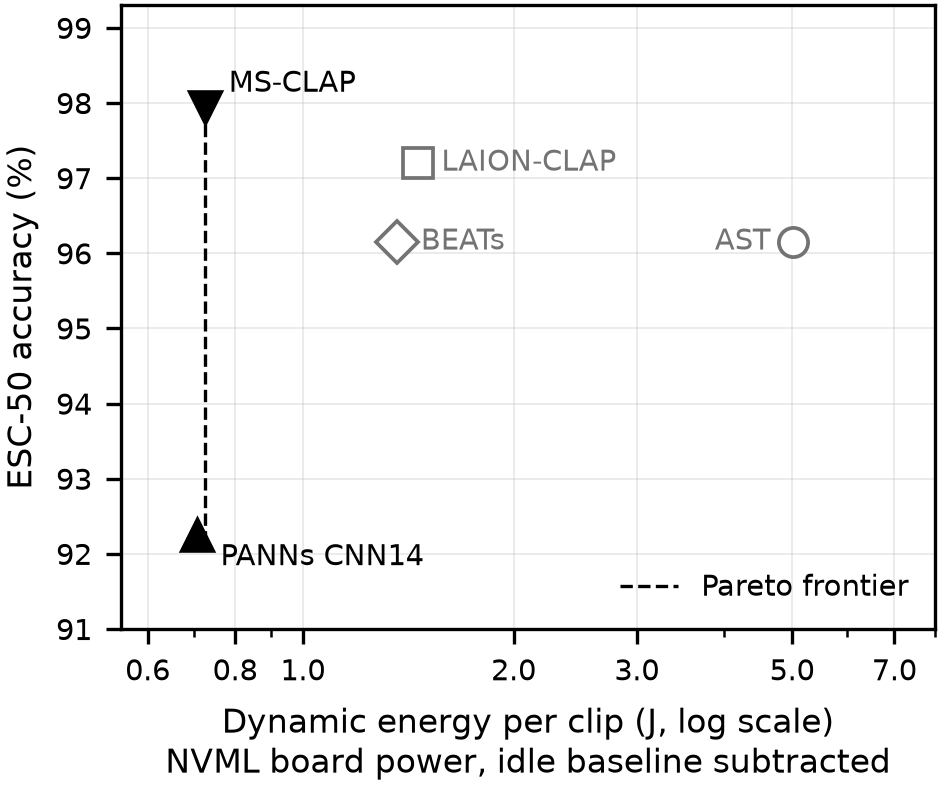
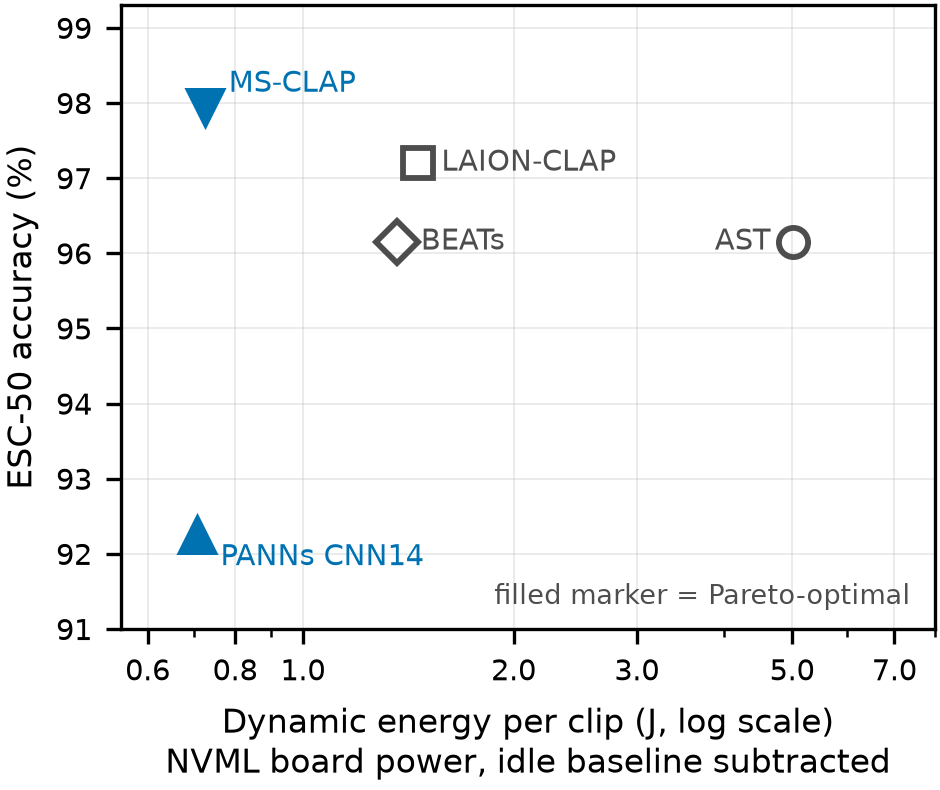
figures: raise contrast and unify the Pareto encoding in fig1/fig2
Dominated models were drawn with a 0.45 grey that washes out in print.
Both scatter figures now use an Okabe-Ito blue (#0072B2) for Pareto-optimal
points and a dark grey (#4D4D4D) for dominated ones, applied to markers and
their labels alike; dominated markers are unfilled with a heavier edge.
Marker shapes are unchanged, so the model encoding still survives greyscale.

The dashed frontier staircase and its legend are dropped from fig1 in favour
of the same 'filled marker = Pareto-optimal' annotation fig2 already used,
so the two figures now read identically.

fig3, fig4 and fig5 are untouched (their PNGs are byte-identical; their PDFs
were restored to avoid timestamp-only churn).

diff --git a/scripts/make_figures.py b/scripts/make_figures.py
@@ -30,8 +30,13 @@ RESULTS = ROOT / "results"
 FIGURES = ROOT / "figures"
 
 COL_W = 3.5          # IEEE single-column width in inches
-GRAY = "0.45"
-PARETO_MS = 7.0
+GRAY = "0.45"        # figures 3-5 only
+#: Scatter palette (fig1/fig2). Okabe-Ito blue for the accent; the dominated
+#: grey is dark enough to stay legible in print and in greyscale conversion.
+PARETO = "#0072B2"
+DOMINATED = "#4D4D4D"
+PARETO_MS = 8.0      # Pareto-optimal markers
+DOMINATED_MS = 7.0
 # distinct, grayscale-safe markers (shape carries the identity, not colour)
 MARKERS = {"ast": "o", "laion_clap": "s", "panns_cnn14": "^",
            "beats": "D", "ms_clap": "v"}
@@ -83,28 +88,23 @@ def scatter_pareto(ax, data: pd.DataFrame, cost_col: str, probe: pd.DataFrame,
 
     for row in data.itertuples():
         opt = row.optimal
+        colour = PARETO if opt else DOMINATED
         ax.plot(getattr(row, cost_col), row.accuracy_pct,
-                marker=MARKERS[row.model], markersize=PARETO_MS,
-                markerfacecolor="black" if opt else "white",
-                markeredgecolor="black" if opt else GRAY,
-                markeredgewidth=1.1 if opt else 0.9, linestyle="none",
+                marker=MARKERS[row.model],
+                markersize=PARETO_MS if opt else DOMINATED_MS,
+                markerfacecolor=colour if opt else "none",
+                markeredgecolor=colour,
+                markeredgewidth=1.2 if opt else 1.4, linestyle="none",
                 zorder=3 if opt else 2)
         dx, dy, ha = label_offsets.get(row.model, (1.06, 0.0, "left"))
         ax.annotate(DISPLAY[row.model],
                     (getattr(row, cost_col), row.accuracy_pct),
                     xytext=(getattr(row, cost_col) * dx, row.accuracy_pct + dy),
-                    fontsize=7, va="center", ha=ha,
-                    color="black" if opt else GRAY, zorder=4)
+                    fontsize=7, va="center", ha=ha, color=colour, zorder=4)
 
-    front = data[data["optimal"]].sort_values(cost_col)
-    if len(front) > 1:  # staircase frontier: only meaningful with >= 2 points
-        xs, ys = [], []
-        for i, r in enumerate(front.itertuples()):
-            if i:
-                xs.append(getattr(r, cost_col)); ys.append(ys[-1])
-            xs.append(getattr(r, cost_col)); ys.append(r.accuracy_pct)
-        ax.plot(xs, ys, color="black", linewidth=0.8, linestyle="--",
-                zorder=1, label="Pareto frontier")
+    ax.annotate("filled marker = Pareto-optimal", xy=(0.97, 0.04),
+                xycoords="axes fraction", fontsize=6.5, color=DOMINATED,
+                ha="right")
     ax.set_xscale("log")
     # explicit ticks: the default log minor labels collide at this width
     ax.set_xticks(xticks)
@@ -127,7 +127,6 @@ def figure1(probe, eff):
         xticks=[0.6, 0.8, 1.0, 2.0, 3.0, 5.0, 7.0])
     ax.set_ylim(91.0, 99.3)
     ax.set_xlim(0.55, 8.0)
-    ax.legend(loc="lower right", frameon=False)
     save(fig, "fig1_accuracy_vs_energy_fp32_bs1")
     return data
 
@@ -144,8 +143,6 @@ def figure2(probe, eff):
         xticks=[10, 15, 20, 30, 50, 80, 120])
     ax.set_ylim(91.0, 99.3)
     ax.set_xlim(9.5, 130.0)
-    ax.annotate("filled marker = Pareto-optimal", xy=(0.97, 0.04),
-                xycoords="axes fraction", fontsize=6.5, color=GRAY, ha="right")
     save(fig, "fig2_accuracy_vs_latency_fp32_bs1")
     return data
 
